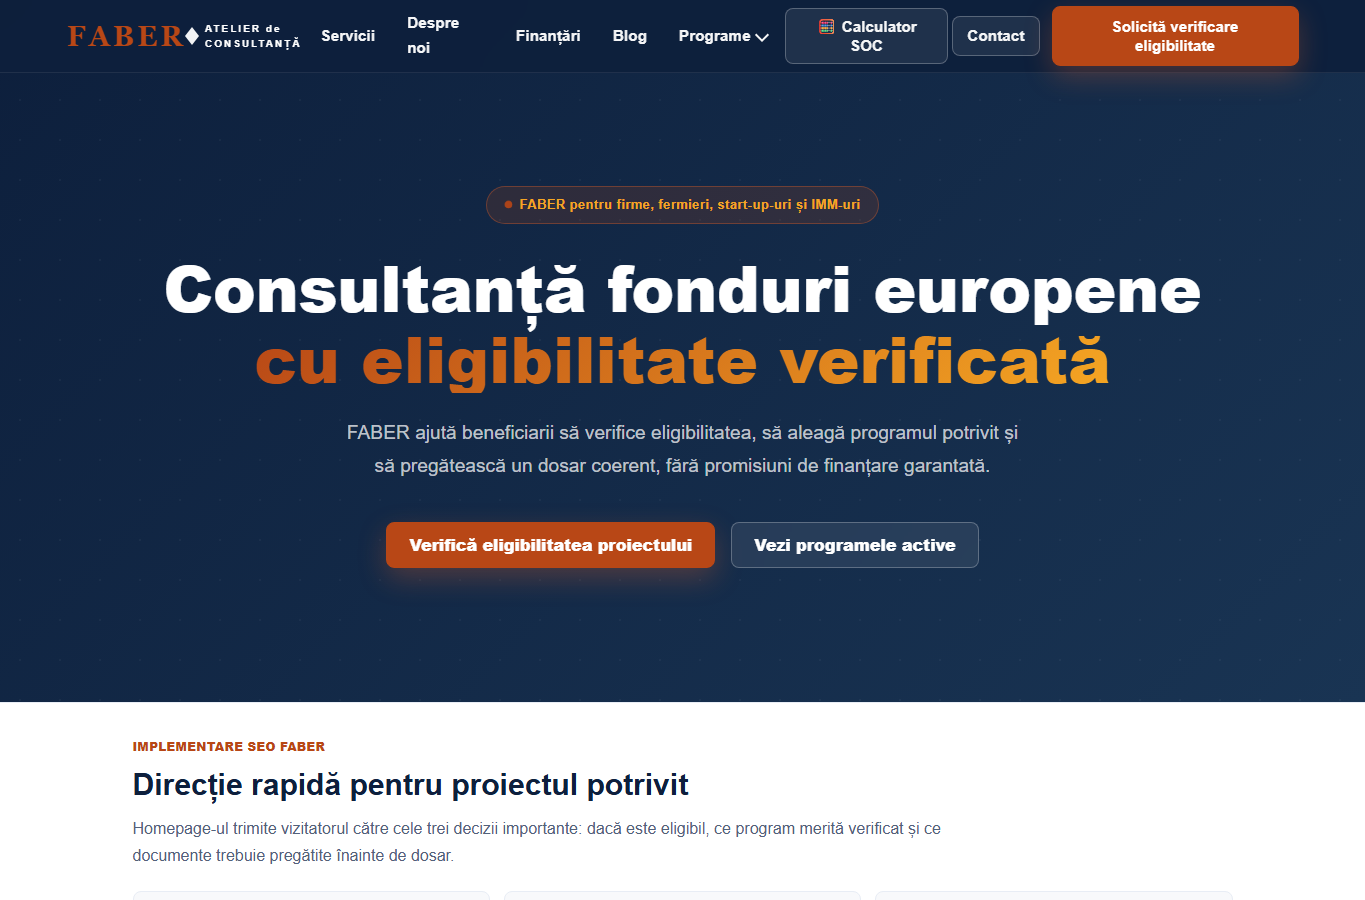
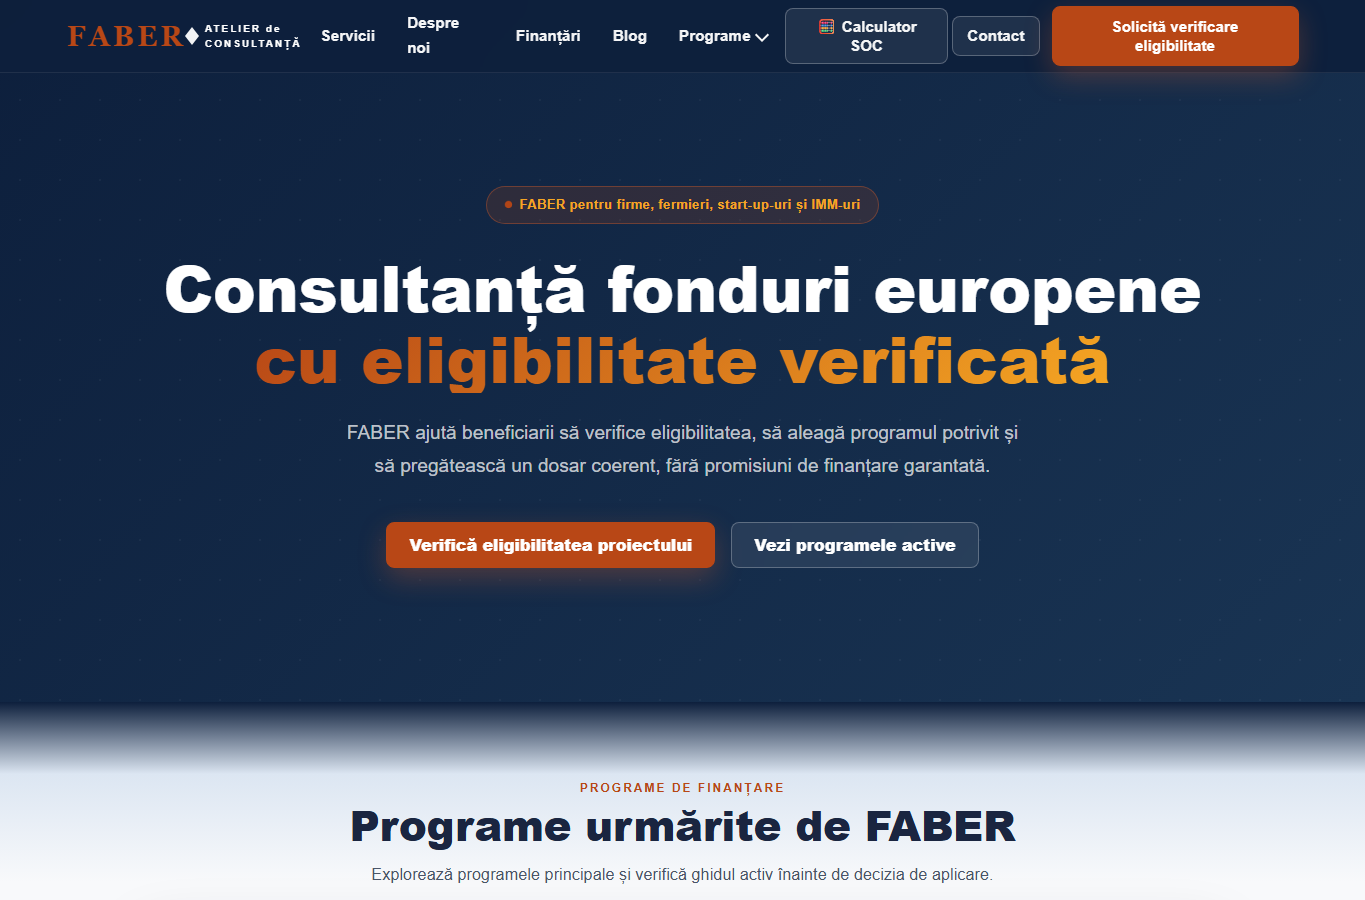
Remove homepage quick direction section

Changed region(s): [[0.0, 0.7778, 1.0, 0.9956]]

diff --git a/index.html b/index.html
@@ -904,35 +904,6 @@
 
       </div>
     </section>
-  <section id="seo-plan-homepage" class="seo-plan-block" aria-labelledby="seo-plan-homepage-title">
-    <div class="seo-plan-block__inner">
-      <p class="seo-plan-block__eyebrow">Implementare SEO FABER</p>
-      <h2 id="seo-plan-homepage-title">Direcție rapidă pentru proiectul potrivit</h2>
-      <p class="seo-plan-block__intro">Homepage-ul trimite vizitatorul către cele trei decizii importante: dacă este eligibil, ce program merită verificat și ce documente trebuie pregătite înainte de dosar.</p>
-      <div class="seo-plan-block__grid">
-        <article class="seo-plan-card"><h3>IMM-uri</h3><p>Pornește de la investiția dorită, cod CAEN, buget și regiunea în care se face proiectul.</p></article>
-        <article class="seo-plan-card"><h3>Fermieri</h3><p>Verifică AFIR, dimensiunea economică, documentele agricole și legătura investiției cu exploatația.</p></article>
-        <article class="seo-plan-card"><h3>Start-up-uri</h3><p>Separă ideea de afaceri de condițiile programului, CAEN, buget și locuri de muncă.</p></article>
-        <article class="seo-plan-card"><h3>Fonduri 2026</h3><p>Urmărește calendarul, statusul apelului și documentele cerute înainte de a pregăti dosarul.</p></article>
-      </div>
-      <ul class="seo-plan-block__checklist">
-        <li>CTA principal constant: verificarea eligibilității.</li>
-        <li>Link spre consultanță, fonduri europene, AFIR, PNRR și Start-Up Nation.</li>
-        <li>Fără promisiuni de finanțare garantată sau claims numerice neverificate.</li>
-        <li>Orientare rapidă către hub-ul potrivit.</li>
-      </ul>
-      <div class="seo-plan-block__links">
-        <a href="/verificare-eligibilitate-fonduri-europene">Verifică eligibilitatea proiectului</a>
-        <a href="/consultanta-fonduri-europene">Consultanță fonduri europene</a>
-        <a href="/fonduri-europene">Vezi programele</a>
-        <a href="/fonduri-europene-nerambursabile-2026">Fonduri europene 2026</a>
-        <a href="/calendar-fonduri-europene">Calendar fonduri europene</a>
-      </div>
-    </div>
-  </section>
-
-
-
     <section id="carousel-section" class="program-carousel-section" aria-labelledby="program-carousel-title">
       <div class="program-carousel-header">
         <span class="section-label">Programe de finanțare</span>

diff --git a/reports/verification-summary.md b/reports/verification-summary.md
@@ -1,6 +1,6 @@
 # Verification Summary
 
-Generated: 2026-06-02T01:03:43.248Z
+Generated: 2026-06-02T07:33:41.549Z
 Mode: check
 
 ## SEO
